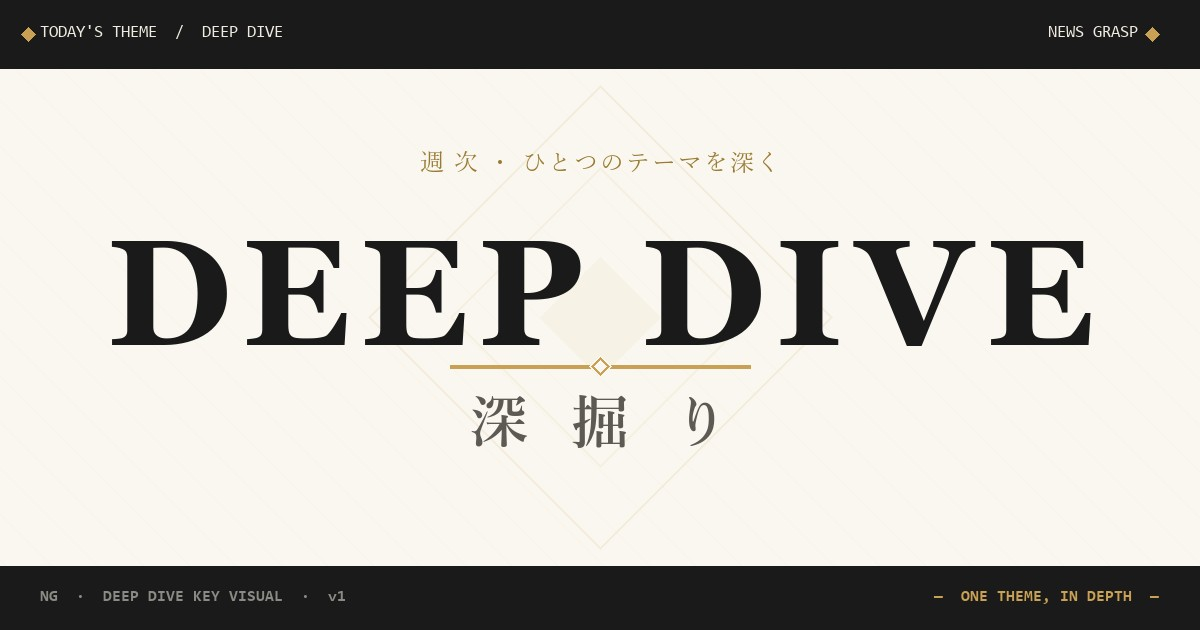
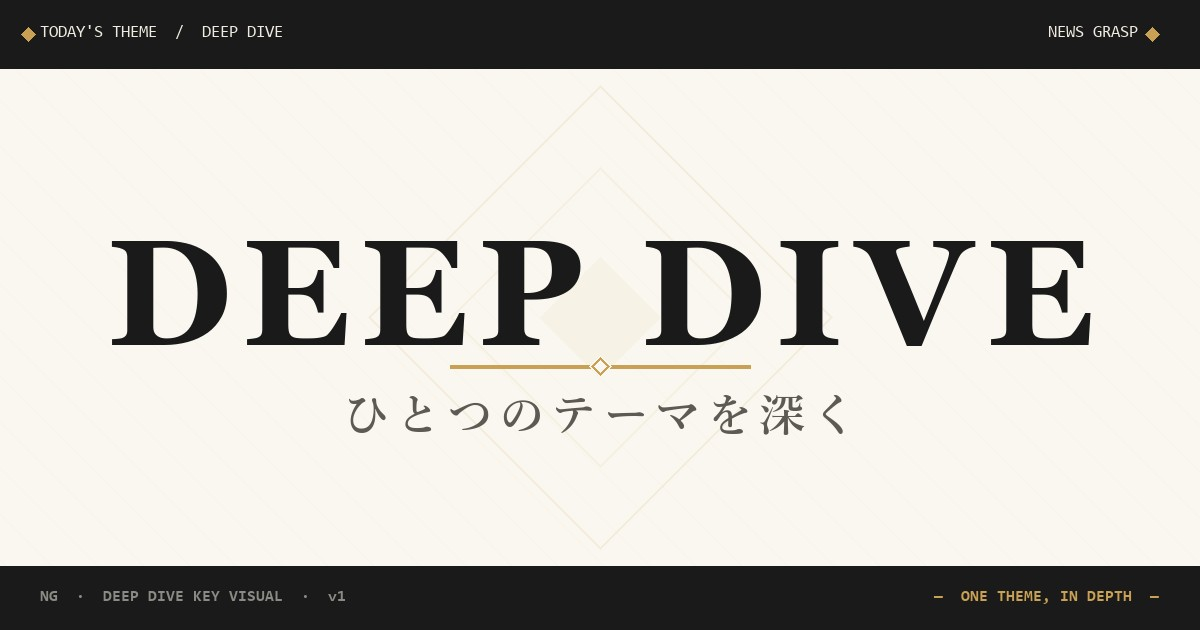
DeepDive サムネの文言を修正(週次削除・サブタイトル差し替え)
- 「週次」は実態(週次配信ではない)と異なるため画像から削除
- 大見出し下の「深掘り」単独表記が締まらないため、罫線下のサブタイトルを
  「ひとつのテーマを深く」に差し替え。長い句に合わせ font 46 / 字間調整
- 画像差し替えに伴い PWA SW_VERSION を 2026-06-01-4 に bump

Changed region(s): [[0.2775, 0.6333, 0.7092, 0.7238], [0.4317, 0.2413, 0.6475, 0.2714], [0.3392, 0.2413, 0.4008, 0.2714]]

diff --git a/docs/sw.js b/docs/sw.js
@@ -12,7 +12,7 @@
  *  activate 時に古いキャッシュをまとめて削除できる。
  */
 
-const SW_VERSION = '2026-06-01-3';
+const SW_VERSION = '2026-06-01-4';
 const SCOPE_PREFIX = '/News-Grasp/';
 const HTML_CACHE = `news-grasp-html-${SW_VERSION}`;
 const ASSET_CACHE = `news-grasp-assets-${SW_VERSION}`;

diff --git a/design/build_deepdive_og.py b/design/build_deepdive_og.py
@@ -104,9 +104,7 @@ def build() -> None:
                         r"C:\Windows\Fonts\timesbd.ttf"], 150)
     f_jp = find_font([r"C:\Windows\Fonts\yumindb.ttf",
                       r"C:\Windows\Fonts\yumin.ttf",
-                      r"C:\Windows\Fonts\msmincho.ttc"], 58)
-    f_kicker = find_font([r"C:\Windows\Fonts\yumin.ttf",
-                          r"C:\Windows\Fonts\msmincho.ttc"], 24)
+                      r"C:\Windows\Fonts\msmincho.ttc"], 46)
     f_mono = find_font([r"C:\Windows\Fonts\consola.ttf"], 17)
     f_mono_bar = find_font([r"C:\Windows\Fonts\consolab.ttf",
                             r"C:\Windows\Fonts\consola.ttf"], 16)
@@ -125,12 +123,6 @@ def build() -> None:
     od2.polygon(_diamond(W - 40 - 8, BAR_TOP_H / 2, 7), fill=GOLD)
 
     # ── 中央キービジュアル ──
-    # キッカー (金・和文セリフ)
-    kicker = "週 次 ・ ひとつのテーマを深く"
-    kw = tracked_width(draw, kicker, f_kicker, 2)
-    draw_tracked_text(draw, (cx - kw / 2, cy - 168), kicker, f_kicker,
-                      (0x9A, 0x7B, 0x33), 2)
-
     # "DEEP DIVE" (Georgia Bold・墨・字間広め)
     title = "DEEP DIVE"
     tw = tracked_width(draw, title, f_dive, 10)
@@ -146,10 +138,10 @@ def build() -> None:
     od2.polygon(_diamond(cx, rule_y + 1.5, 11), fill=PAPER)
     od2.polygon(_diamond(cx, rule_y + 1.5, 9), outline=GOLD, width=2)
 
-    # "深 掘 り" (游明朝・DIM・字間広め)
-    jp = "深 掘 り"
-    jw = tracked_width(draw, jp, f_jp, 12)
-    draw_tracked_text(draw, (cx - jw / 2, rule_y + 26), jp, f_jp, DIM, 12)
+    # サブタイトル「ひとつのテーマを深く」(游明朝・DIM・適度な字間)
+    jp = "ひとつのテーマを深く"
+    jw = tracked_width(draw, jp, f_jp, 6)
+    draw_tracked_text(draw, (cx - jw / 2, rule_y + 26), jp, f_jp, DIM, 6)
 
     # ── 下バー (墨地・モノラベル) ──
     by0 = H - BAR_BOT_H
